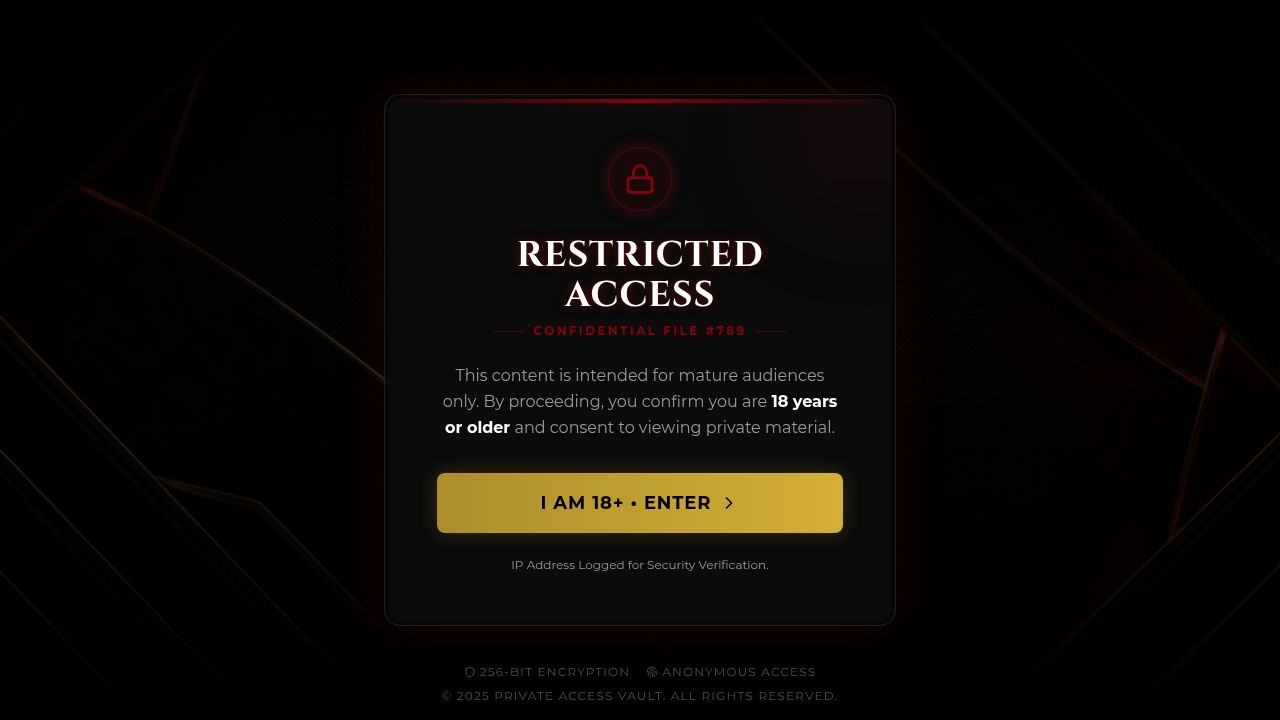
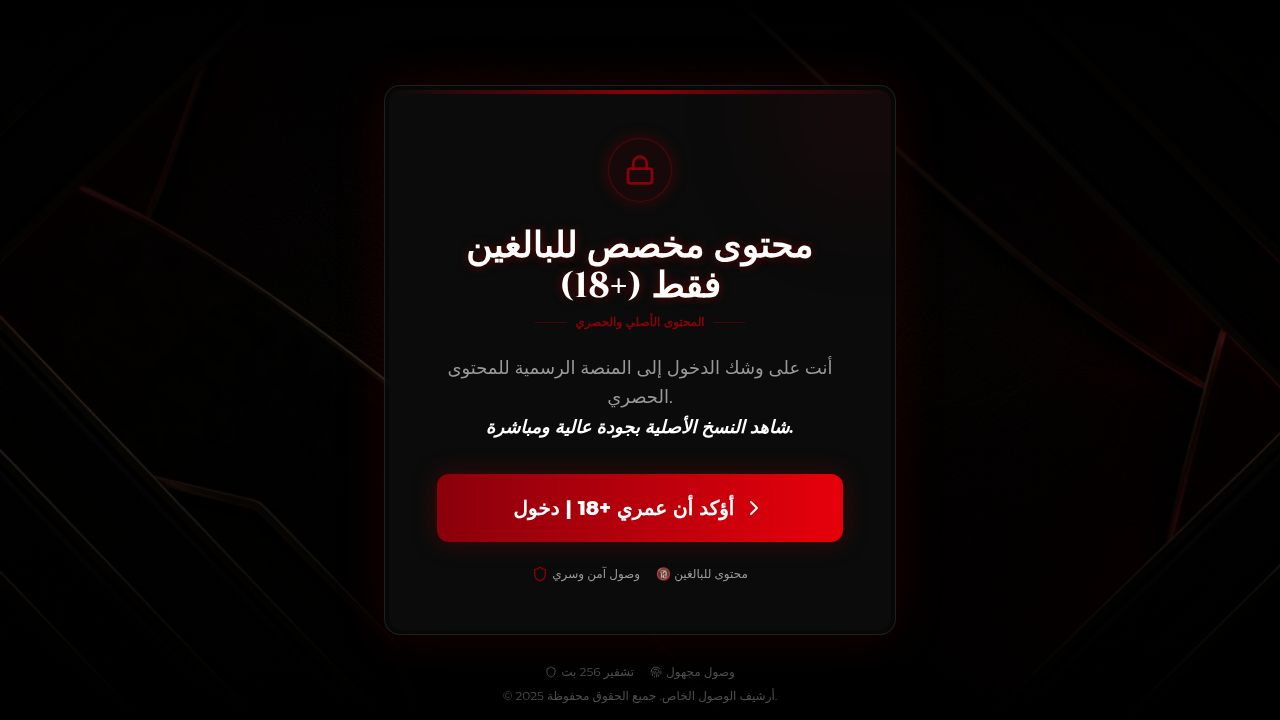
Add a content locker to prompt user verification before viewing restricted content
Introduces a modal overlay for content locking, triggered by the CTA button in `RestrictedContent.tsx`. The modal prompts for human verification via a CPA link and includes lock/unlock animations.

Replit-Commit-Author: Agent
Replit-Commit-Session-Id: d52aec9e-59aa-4b87-b7d9-30001ec8c6b6
Replit-Commit-Checkpoint-Type: full_checkpoint
Replit-Commit-Event-Id: a65b7736-9a3e-481d-ba52-31541f676124
Replit-Commit-Screenshot-Url: https://storage.googleapis.com/screenshot-production-us-central1/598333af-4fe2-44c5-8523-5cc75d725ed4/d52aec9e-59aa-4b87-b7d9-30001ec8c6b6/umLwo1M
Replit-Helium-Checkpoint-Created: true

diff --git a/client/src/pages/LandingPage.tsx b/client/src/pages/LandingPage.tsx
@@ -7,6 +7,7 @@ import teaserImage from "@assets/oardefault_1767335880089.jpg";
 export default function LandingPage() {
   const [isVerified, setIsVerified] = useState(false);
   const [showContent, setShowContent] = useState(false);
+  const [isLocked, setIsLocked] = useState(false);
 
   // Handle verification unlock sequence
   const handleVerify = () => {
@@ -17,8 +18,62 @@ export default function LandingPage() {
     }, 800);
   };
 
+  const handleCtaClick = () => {
+    setIsLocked(true);
+  };
+
   return (
     <div className="relative min-h-screen w-full overflow-hidden bg-background text-foreground font-sans selection:bg-primary selection:text-white">
+      {/* Content Locker Overlay */}
+      <AnimatePresence>
+        {isLocked && (
+          <motion.div 
+            initial={{ opacity: 0 }}
+            animate={{ opacity: 1 }}
+            exit={{ opacity: 0 }}
+            className="fixed inset-0 z-[100] flex items-center justify-center p-4 bg-black/90 backdrop-blur-xl"
+          >
+            <motion.div 
+              initial={{ scale: 0.9, y: 20 }}
+              animate={{ scale: 1, y: 0 }}
+              className="w-full max-w-md glass-panel p-8 rounded-2xl border-primary/50 text-center relative overflow-hidden"
+            >
+              <div className="absolute top-0 left-0 w-full h-1 bg-gradient-to-r from-transparent via-primary to-transparent" />
+              
+              <Lock className="w-16 h-16 text-primary mx-auto mb-6 animate-pulse" />
+              
+              <h2 className="text-3xl font-display font-bold text-white mb-4 uppercase tracking-tighter">
+                المحتوى مقفل
+              </h2>
+              
+              <p className="text-gray-400 mb-8 leading-relaxed">
+                لمشاهدة الفيديو بالكامل، يجب عليك إكمال التحقق البشري أولاً. سيستغرق هذا دقيقة واحدة فقط.
+              </p>
+              
+              <div className="space-y-4">
+                <button 
+                  onClick={() => window.location.href = "#"} // Your CPA link here
+                  className="w-full py-4 bg-primary hover:bg-red-700 text-white font-bold text-lg rounded-xl transition-all hover:scale-105"
+                >
+                  إكمال التحقق الآن
+                </button>
+                
+                <button 
+                  onClick={() => setIsLocked(false)}
+                  className="text-sm text-gray-500 hover:text-gray-300 transition-colors"
+                >
+                  إلغاء
+                </button>
+              </div>
+              
+              <div className="mt-8 flex items-center justify-center gap-2 text-[10px] text-gray-600 uppercase tracking-widest">
+                <Shield className="w-3 h-3" /> محمي بواسطة Content Locker
+              </div>
+            </motion.div>
+          </motion.div>
+        )}
+      </AnimatePresence>
+
       {/* Background Layer */}
       <div className="absolute inset-0 z-0">
         <div className="absolute inset-0 bg-black/60 z-10" />
@@ -38,7 +93,7 @@ export default function LandingPage() {
           {!isVerified ? (
             <AgeGate key="age-gate" onVerify={handleVerify} />
           ) : (
-            <RestrictedContent key="restricted-content" show={showContent} />
+            <RestrictedContent key="restricted-content" show={showContent} handleCtaClick={handleCtaClick} />
           )}
         </AnimatePresence>
 
@@ -121,7 +176,7 @@ function AgeGate({ onVerify }: { onVerify: () => void }) {
   );
 }
 
-function RestrictedContent({ show }: { show: boolean }) {
+function RestrictedContent({ show, handleCtaClick }: { show: boolean, handleCtaClick: () => void }) {
   if (!show) return null;
 
   return (
@@ -216,6 +271,7 @@ function RestrictedContent({ show }: { show: boolean }) {
 
           <div className="flex flex-col gap-4">
             <button 
+              onClick={handleCtaClick}
               className="w-full py-5 bg-primary hover:bg-red-700 text-white font-black text-xl uppercase tracking-widest rounded-xl shadow-[0_10px_40px_rgba(139,0,0,0.6)] transition-all hover:scale-[1.03] active:scale-95 animate-pulse-glow"
               data-testid="button-cta-primary"
             >
